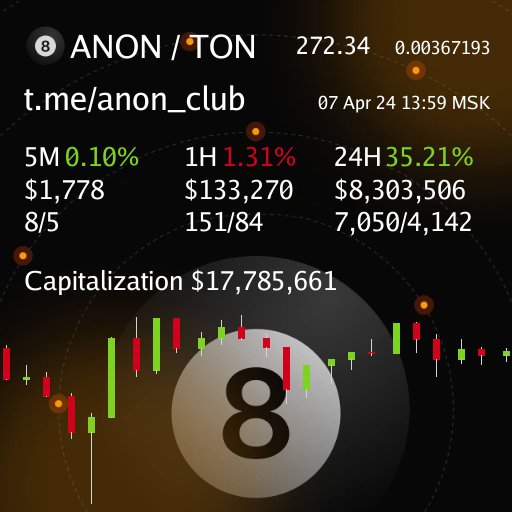
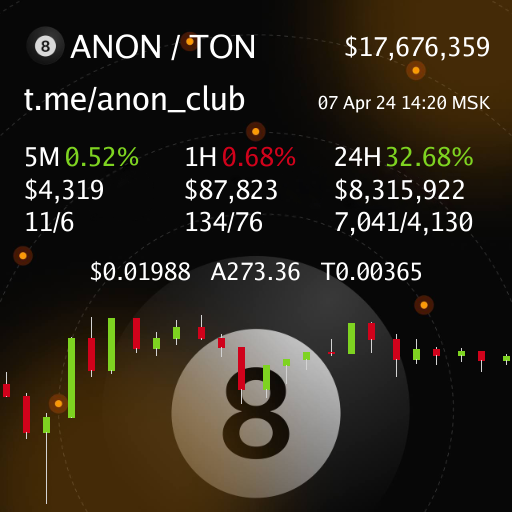
show BaseTokenPriceUsd

diff --git a/stickerUpdater/stickerUpdater.go b/stickerUpdater/stickerUpdater.go
@@ -130,11 +130,30 @@ func (su *StickerUpdater) Run() error {
 	dc.SetFontFace(face32)
 	dc.DrawString(data.Data.Attributes.Name, 70, 58)
 
-	dc.SetFontFace(face24)
-	dc.DrawStringAnchored(data.Data.Attributes.QuoteTokenPriceBaseToken, 370, 54, 1, 0)
+	baseTokenPriceUsd, err := strconv.ParseFloat(data.Data.Attributes.BaseTokenPriceUsd, 64)
+	if err != nil {
+		baseTokenPriceUsd = 0
+	}
 
-	dc.SetFontFace(face18)
-	dc.DrawStringAnchored(data.Data.Attributes.BaseTokenPriceQuoteToken, 490, 54, 1, 0)
+	quoteTokenPriceBaseToken, err := strconv.ParseFloat(data.Data.Attributes.QuoteTokenPriceBaseToken, 64)
+	if err != nil {
+		quoteTokenPriceBaseToken = 0
+	}
+
+	baseTokenPriceQuoteToken, err := strconv.ParseFloat(data.Data.Attributes.BaseTokenPriceQuoteToken, 64)
+	if err != nil {
+		baseTokenPriceQuoteToken = 0
+	}
+
+	dc.SetFontFace(face24)
+	dc.DrawStringAnchored(
+		fmt.Sprintf(
+			"$%s   A%s   T%s",
+			humanize.CommafWithDigits(baseTokenPriceUsd, 5),
+			humanize.CommafWithDigits(quoteTokenPriceBaseToken, 2),
+			humanize.CommafWithDigits(baseTokenPriceQuoteToken, 5),
+		),
+		256, 280, 0.5, 0)
 
 	dc.SetFontFace(face26)
 
@@ -254,7 +273,7 @@ func (su *StickerUpdater) Run() error {
 	}
 
 	dc.SetFontFace(face26)
-	dc.DrawStringAnchored("Capitalization $"+humanize.Comma(mCap), 24, 290, 0, 0)
+	dc.DrawStringAnchored("$"+humanize.Comma(mCap), 490, 30, 1, 1)
 
 	templateFileImage := dc.Image()
 	if su.config.DATA_OHLCV_URL != "" {
@@ -298,6 +317,8 @@ func (su *StickerUpdater) Run() error {
 	if su.config.Debug {
 		fmt.Println("-------------------------------------")
 	}
+
+	return nil
 
 	fileContent, _ := os.ReadFile(imgOutPath)
 
